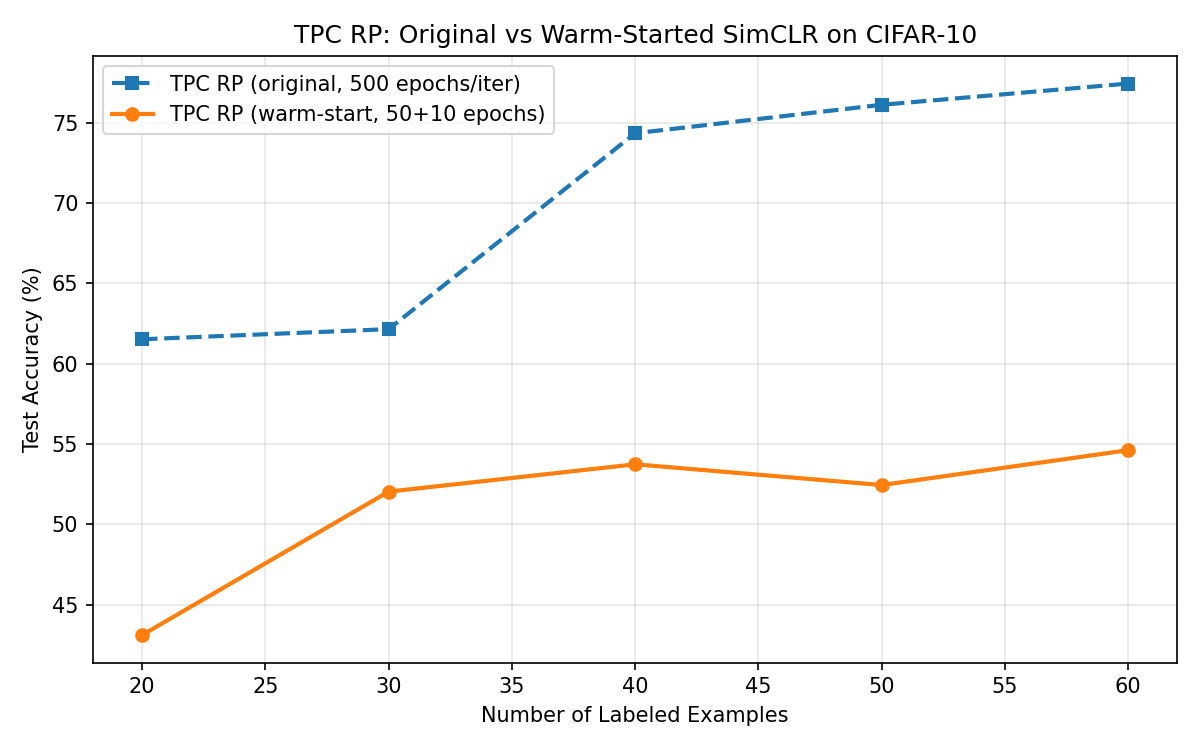
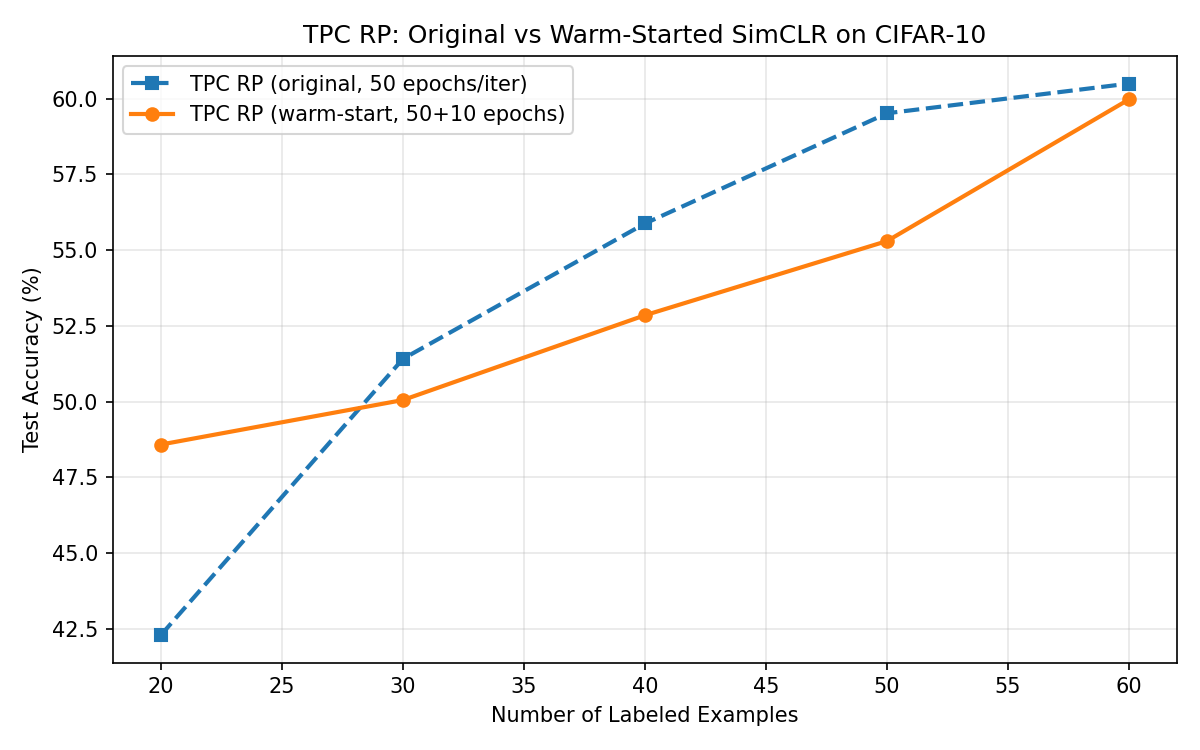
Modify learning rate 0.1 -> 0.2 and add result

diff --git a/tpcrp/simclr.py b/tpcrp/simclr.py
@@ -73,10 +73,10 @@ def train_simclr(model, loader, epochs=500, lr=0.4, device='cpu', warmup=False):
     Paper: SGD, lr=0.4, momentum=0.9, weight_decay=1e-4, cosine scheduler, 500 epochs.
 
     warmup=False (default): train from scratch at the paper's lr=0.4.
-    warmup=True: fine-tune from an existing checkpoint at a lower lr=0.1,
+    warmup=True: fine-tune from an existing checkpoint at a lower lr=0.2,
                  used by the warm-start modification for iterations 2+.
     """
-    actual_lr = 0.1 if warmup else lr
+    actual_lr = 0.2 if warmup else lr
     model.to(device)
     optimizer = torch.optim.SGD(model.parameters(), lr=actual_lr,
                                 momentum=0.9, weight_decay=1e-4,
